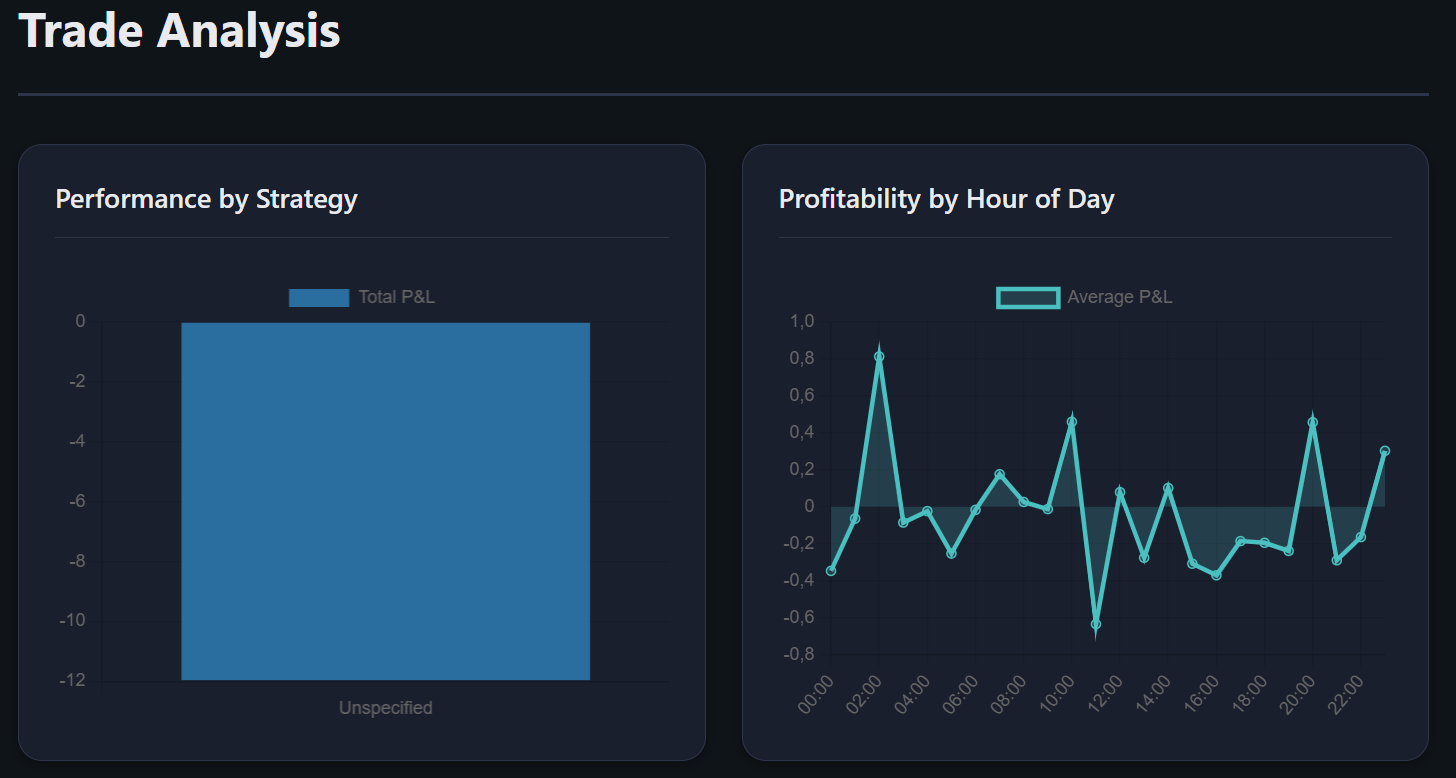
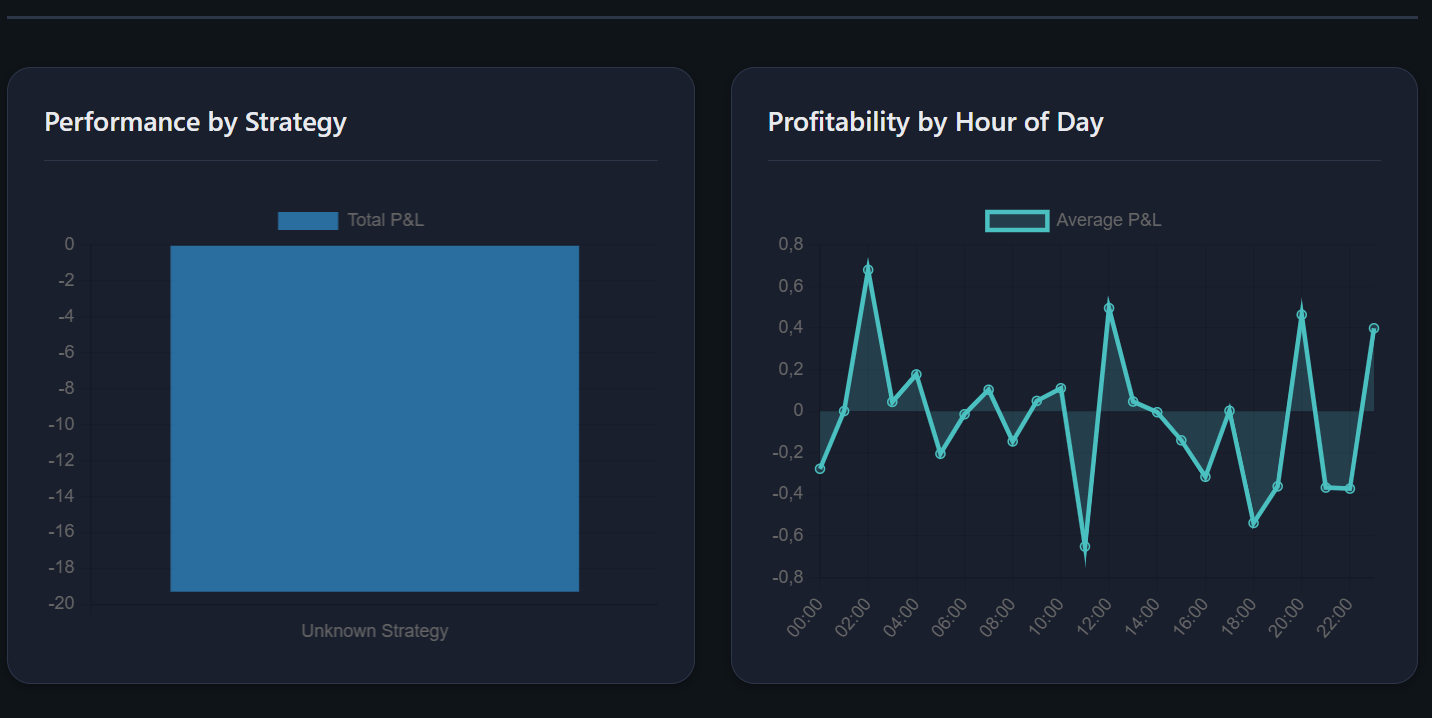
dashboard enhancemend verfications

diff --git a/monitoring/enhanced_dashboard.py b/monitoring/enhanced_dashboard.py
@@ -2272,65 +2272,56 @@ class DashboardEndpoints:
                 raise Exception("Database connection is not available.")
 
             # Fetch historical trades from the database within the specified date range
-        # --- FIX STARTS HERE: Filter trades by the selected strategy ---
+            # Filter trades by the selected strategy
             query = """
                 SELECT * FROM trades
-            WHERE status = 'closed'
-              AND exit_timestamp >= $1
-              AND exit_timestamp <= $2
-              AND (
-                  (metadata->'strategy'->>'name' = $3) OR
-                  (jsonb_typeof(metadata->'strategy') = 'string' AND metadata->>'strategy' = $3)
-              )
+                WHERE status = 'closed'
+                AND exit_timestamp >= $1
+                AND exit_timestamp <= $2
+                AND (
+                    (metadata->'strategy'->>'name' = $3) OR
+                    (jsonb_typeof(metadata->'strategy') = 'string' AND metadata->>'strategy' = $3)
+                )
                 ORDER BY exit_timestamp ASC;
             """
-        trades = await self.db.pool.fetch(
-            query,
-            datetime.fromisoformat(start_date),
-            datetime.fromisoformat(end_date),
-            strategy
-        )
-        # --- FIX ENDS HERE ---
+            trades = await self.db.pool.fetch(
+                query,
+                datetime.fromisoformat(start_date),
+                datetime.fromisoformat(end_date),
+                strategy,
+            )
 
             if not trades:
-                self.backtests[test_id] = {'status': 'completed', 'message': 'No trades found for the selected period.', 'equity_curve': []}
+                self.backtests[test_id] = {
+                    'status': 'completed',
+                    'message': 'No trades found for the selected period.',
+                    'equity_curve': []
+                }
                 return
 
-            self.backtests[test_id]['progress'] = f'Simulating {len(trades)} trades...'
+            self.backtests[test_id]['progress'] = f'Simulating {len(trades)} trades.'
             df = pd.DataFrame([dict(trade) for trade in trades])
             df['profit_loss'] = pd.to_numeric(df['profit_loss'])
             df['exit_timestamp'] = pd.to_datetime(df['exit_timestamp'])
 
-            # --- FIX STARTS HERE: Correct backtesting simulation ---
             # Simulate trades instead of just replaying old P&L
             balance = float(initial_balance)
             equity_curve = [{'timestamp': start_date, 'value': balance}]
-
-            # Assume a fixed position size for simulation
-            position_size_per_trade = balance * 0.1 # Use 10% of initial balance per trade
+            position_size_per_trade = balance * 0.1  # 10% of initial balance per trade
 
             for index, trade in df.iterrows():
-                # Calculate simulated P&L based on a fixed investment size
                 entry_price = float(trade.get('entry_price', 0))
                 exit_price = float(trade.get('exit_price', 0))
-
-                if entry_price > 0:
-                    roi = (exit_price - entry_price) / entry_price
-                else:
-                    roi = 0.0
-
+                roi = (exit_price - entry_price) / entry_price if entry_price > 0 else 0.0
                 simulated_pnl = position_size_per_trade * roi
-
-                # Update balance
                 balance += simulated_pnl
                 df.at[index, 'simulated_pnl'] = simulated_pnl
-
                 equity_curve.append({'timestamp': trade['exit_timestamp'].isoformat(), 'value': balance})
 
-            df['profit_loss'] = df['simulated_pnl'] # Use simulated P&L for all metrics
-            # --- FIX ENDS HERE ---
+            # Use simulated P&L for all metrics
+            df['profit_loss'] = df['simulated_pnl']
 
-            # Calculate final metrics
+            # Final metrics
             final_balance = balance
             total_pnl = final_balance - float(initial_balance)
             total_return_pct = (total_pnl / float(initial_balance)) * 100 if initial_balance > 0 else 0
@@ -2340,14 +2331,14 @@ class DashboardEndpoints:
             losing_trades_df = df[df['profit_loss'] <= 0]
             win_rate = (len(winning_trades_df) / total_trades) * 100 if total_trades > 0 else 0.0
 
-            # Correct Max Drawdown
+            # Max Drawdown from equity curve
             equity_df = pd.DataFrame(equity_curve)
             equity_df['value'] = pd.to_numeric(equity_df['value'])
             peak = equity_df['value'].expanding(min_periods=1).max()
             drawdown = ((equity_df['value'] - peak) / peak).replace([np.inf, -np.inf], 0).fillna(0)
             max_drawdown = abs(float(drawdown.min()) * 100) if not drawdown.empty else 0.0
 
-            # --- FIX STARTS HERE: Implement missing backtesting statistics ---
+            # Backtesting statistics
             gross_profit = float(winning_trades_df['profit_loss'].sum())
             gross_loss = abs(float(losing_trades_df['profit_loss'].sum()))
             profit_factor = gross_profit / gross_loss if gross_loss > 0 else float('inf')
@@ -2357,7 +2348,6 @@ class DashboardEndpoints:
 
             largest_win = float(winning_trades_df['profit_loss'].max()) if not winning_trades_df.empty else 0.0
             largest_loss = abs(float(losing_trades_df['profit_loss'].min())) if not losing_trades_df.empty else 0.0
-            # --- FIX ENDS HERE ---
 
             self.backtests[test_id] = {
                 'status': 'completed',
@@ -2373,13 +2363,12 @@ class DashboardEndpoints:
                 'win_rate': float(win_rate),
                 'winning_trades': len(winning_trades_df),
                 'losing_trades': len(losing_trades_df),
-                'sharpe_ratio': 0, # Placeholder
-                'sortino_ratio': 0, # Placeholder
+                'sharpe_ratio': 0,  # placeholder
+                'sortino_ratio': 0,  # placeholder
                 'max_drawdown': max_drawdown,
                 'equity_curve': equity_curve
             }
             logger.info(f"Backtest {test_id} completed successfully.")
-
         except Exception as e:
             logger.error(f"Error in backtest task {test_id}: {e}", exc_info=True)
             self.backtests[test_id] = {'status': 'failed', 'error': str(e)}
